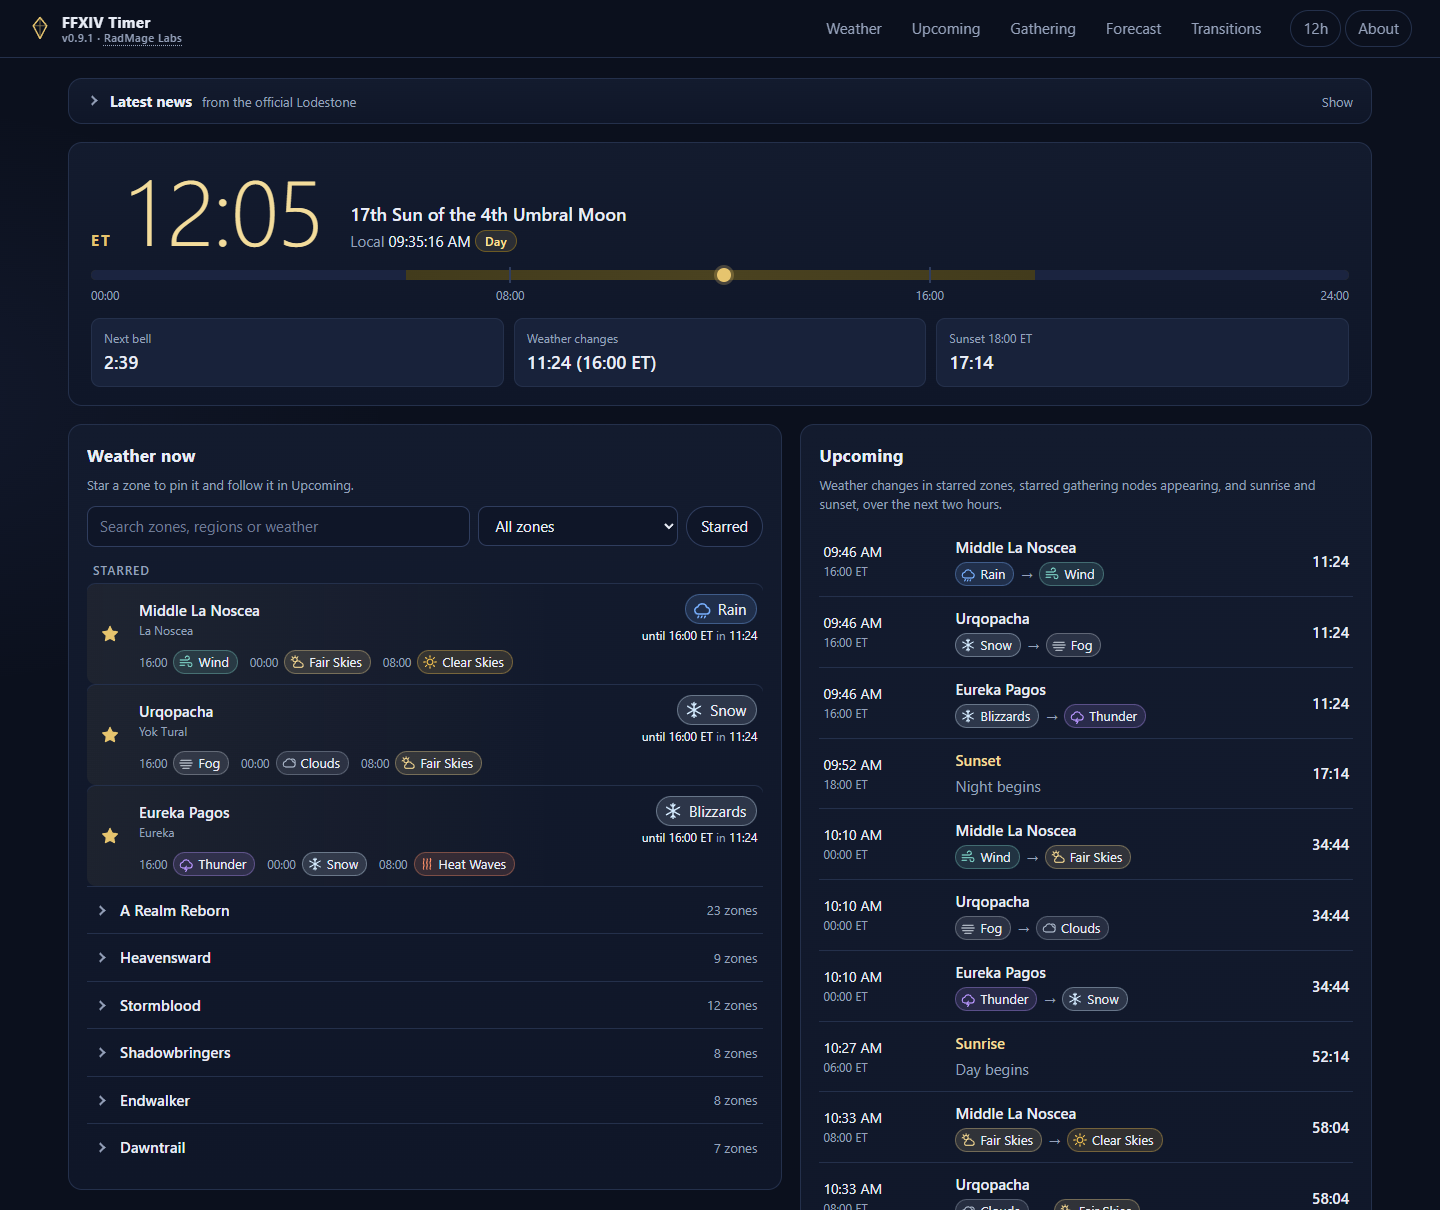
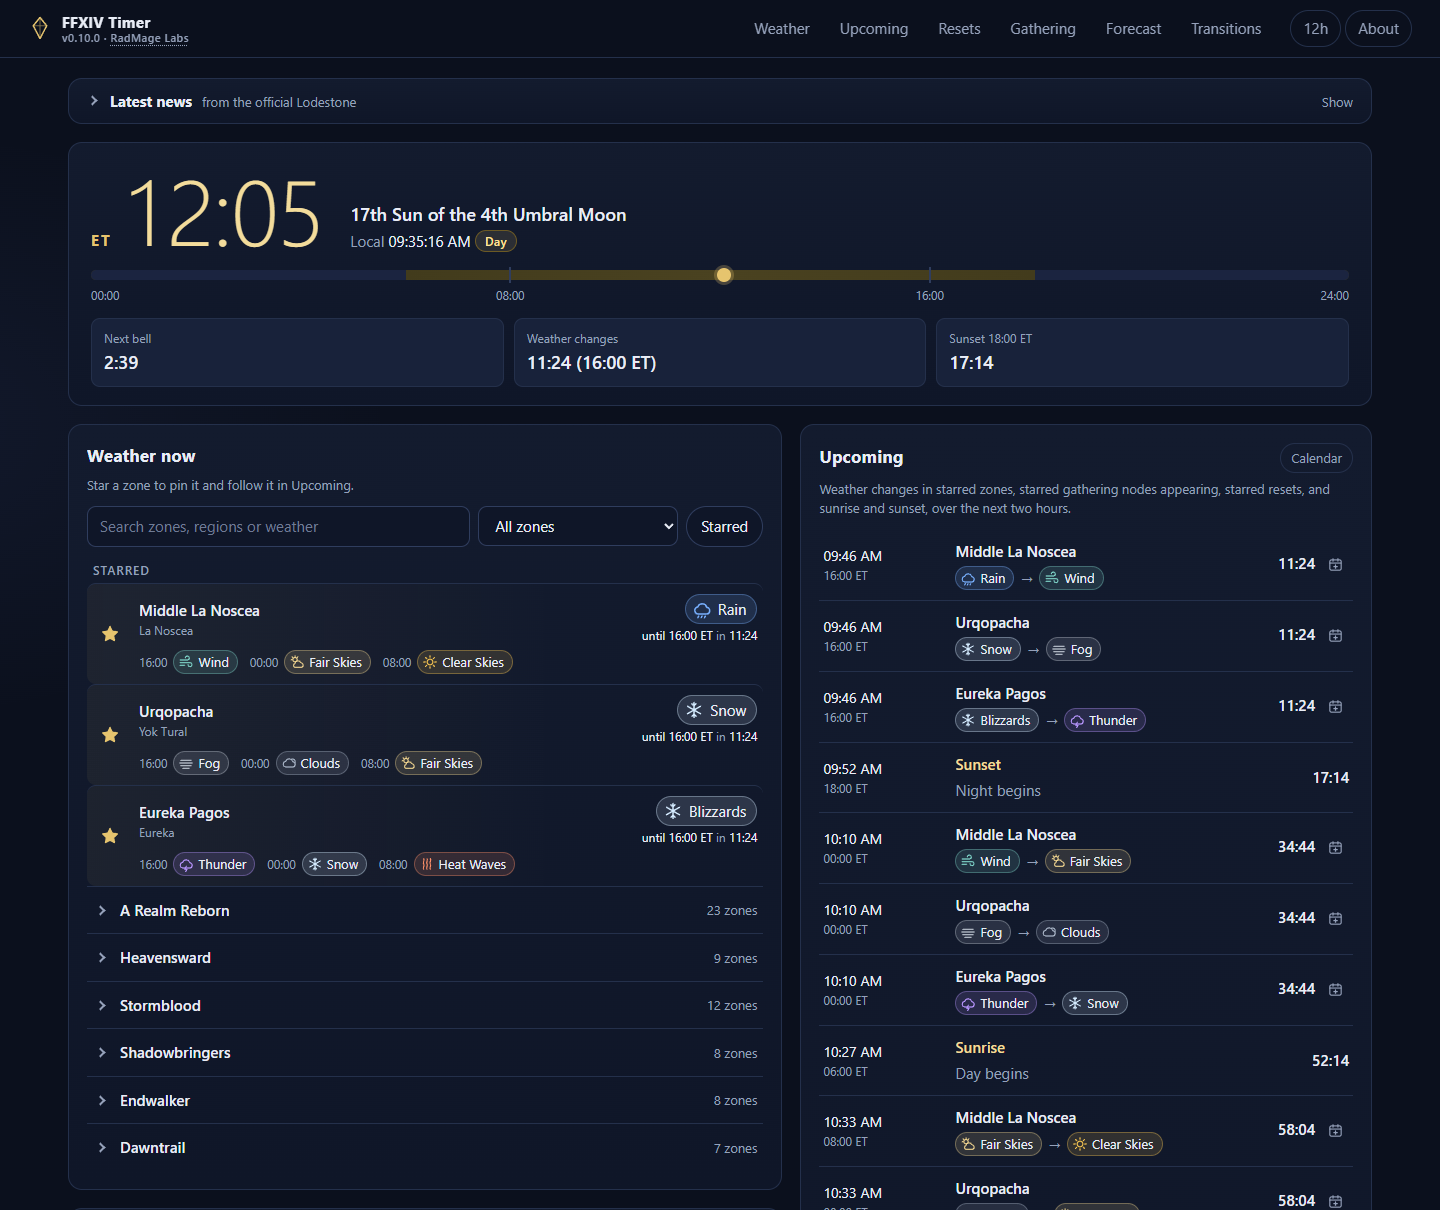
Release v0.10.0: Resets, Add to calendar, a maintenance flag in Latest news, and game data from 7.58
The version in the title, tagline, About and README, the changelog heading, and the README
screenshot retaken at its fixed moment.

diff --git a/index.html b/index.html
@@ -13,7 +13,7 @@
       }
     })();
   </script>
-  <title>FFXIV Timer v0.9.1 - Weather Forecasts, Timed Gathering Nodes &amp; Eorzea Clock | RadMage Labs</title>
+  <title>FFXIV Timer v0.10.0 - Weather Forecasts, Timed Gathering Nodes &amp; Eorzea Clock | RadMage Labs</title>
   <meta name="description" content="FFXIV weather forecasts for 70 zones, Eorzea time, weather transitions, and timers and reminders for all 189 unspoiled and legendary gathering nodes.">
   <meta name="color-scheme" content="dark">
   <meta name="theme-color" content="#0b101d">
@@ -28,7 +28,7 @@
       <svg class="brand-mark" viewBox="0 0 32 32" aria-hidden="true"><use href="#i-crystal"/></svg>
       <span class="brand-text">
         <span>FFXIV Timer</span>
-        <span class="tagline">v0.9.1 · <a href="https://radmagelabs.com/">RadMage Labs</a></span>
+        <span class="tagline">v0.10.0 · <a href="https://radmagelabs.com/">RadMage Labs</a></span>
       </span>
     </div>
     <nav class="jump" aria-label="Sections">
@@ -261,7 +261,7 @@
 
   <dialog id="about" aria-labelledby="about-title">
     <form method="dialog" class="dialog-close"><button class="ghost" aria-label="Close">&times;</button></form>
-    <h2 id="about-title">FFXIV Timer v0.9.1</h2>
+    <h2 id="about-title">FFXIV Timer v0.10.0</h2>
     <div id="about-body"></div>
   </dialog>
 

diff --git a/CHANGELOG.md b/CHANGELOG.md
@@ -3,7 +3,7 @@
 Every version of FFXIV Timer and what changed in it, newest first. Dates are the day I released
 each one.
 
-## Unreleased
+## v0.10.0 (2026-11-16)
 
 Added
 - Resets: a panel with the daily reset, the Mini Cactpot, Grand Company missions, leve

diff --git a/README.md b/README.md
@@ -1,4 +1,4 @@
-# FFXIV Timer v0.9.1
+# FFXIV Timer v0.10.0
 
 Eorzea Time, weather forecasts and weather transitions for FINAL FANTASY XIV. It is a static
 page: no account, no backend and nothing to install. Your settings stay in your browser; the only
